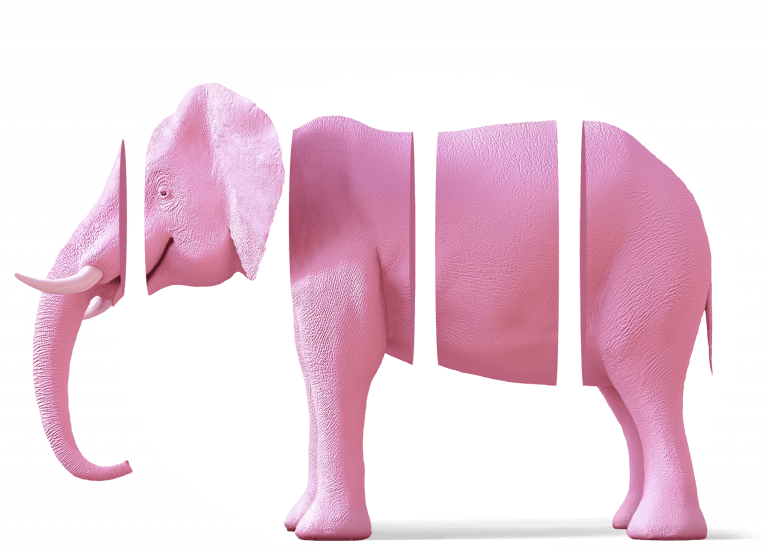
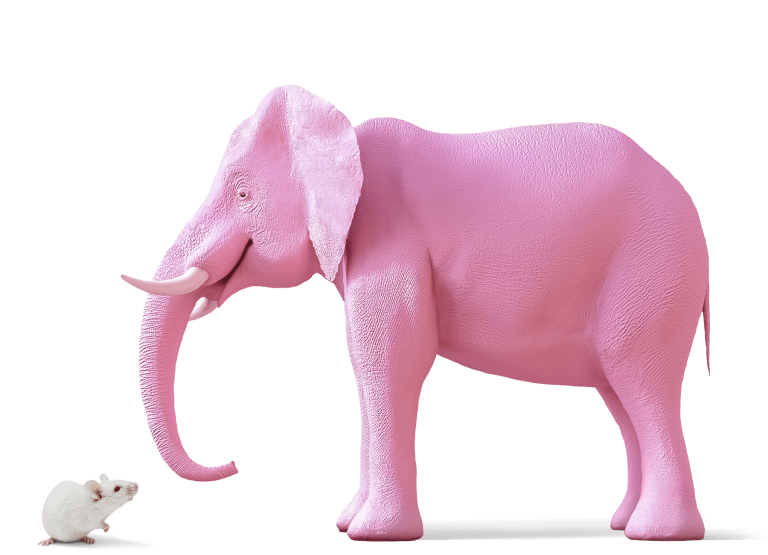
Tweaked landing page for better image positioning

diff --git a/docs/css/custom_index.css b/docs/css/custom_index.css
@@ -2,13 +2,40 @@
 .region-hero-banner {
   width: 100%;
   background-color: #C8BDA4;
+  padding: 2rem;
+  position: relative;
+}
 
+#elephant-img {
+  text-align: right;
+}
+
+
+
+#elephant-img img {
+  width: 25rem;
+}
+
+.hero-text {
+  position: absolute;
 }
 
 .hero-text h2 {
     color: rgb(255, 255, 255);
     letter-spacing: -4px;
     font: normal normal 800 normal 145.6px / 116.48px ProximaNova, Roboto, sans-serif;
+}
+
+.hero-text p {
+  -webkit-tap-highlight-color: transparent;
+font-family: ProximaNova,Roboto,sans-serif;
+word-break: break-word;
+text-align: left;
+color: #fff;
+line-height: 1em;
+font-size: 1.82em;
+box-sizing: border-box;
+display: inline;
 }
 
 .things-container {

diff --git a/docs/index.md b/docs/index.md
@@ -3,13 +3,13 @@
 		<div>
 			<div class="hero-text">
 				<h2>Humm!</h2>
-				<p><strong><span>Pay in sliiiices.&nbsp;No interest ever.</span></strong><br>
-					Here's how.
+				<p><strong>Little things. Big things.</strong><br>
+					<strong>Everything.</strong> No interest ever.
 				</p>
 			</div>
 		</div>
 	</div>
-	<div>
+	<div id="elephant-img">
 		<img src="img/index/Humm_header_how_0.png">
 	</div>
 </div>
